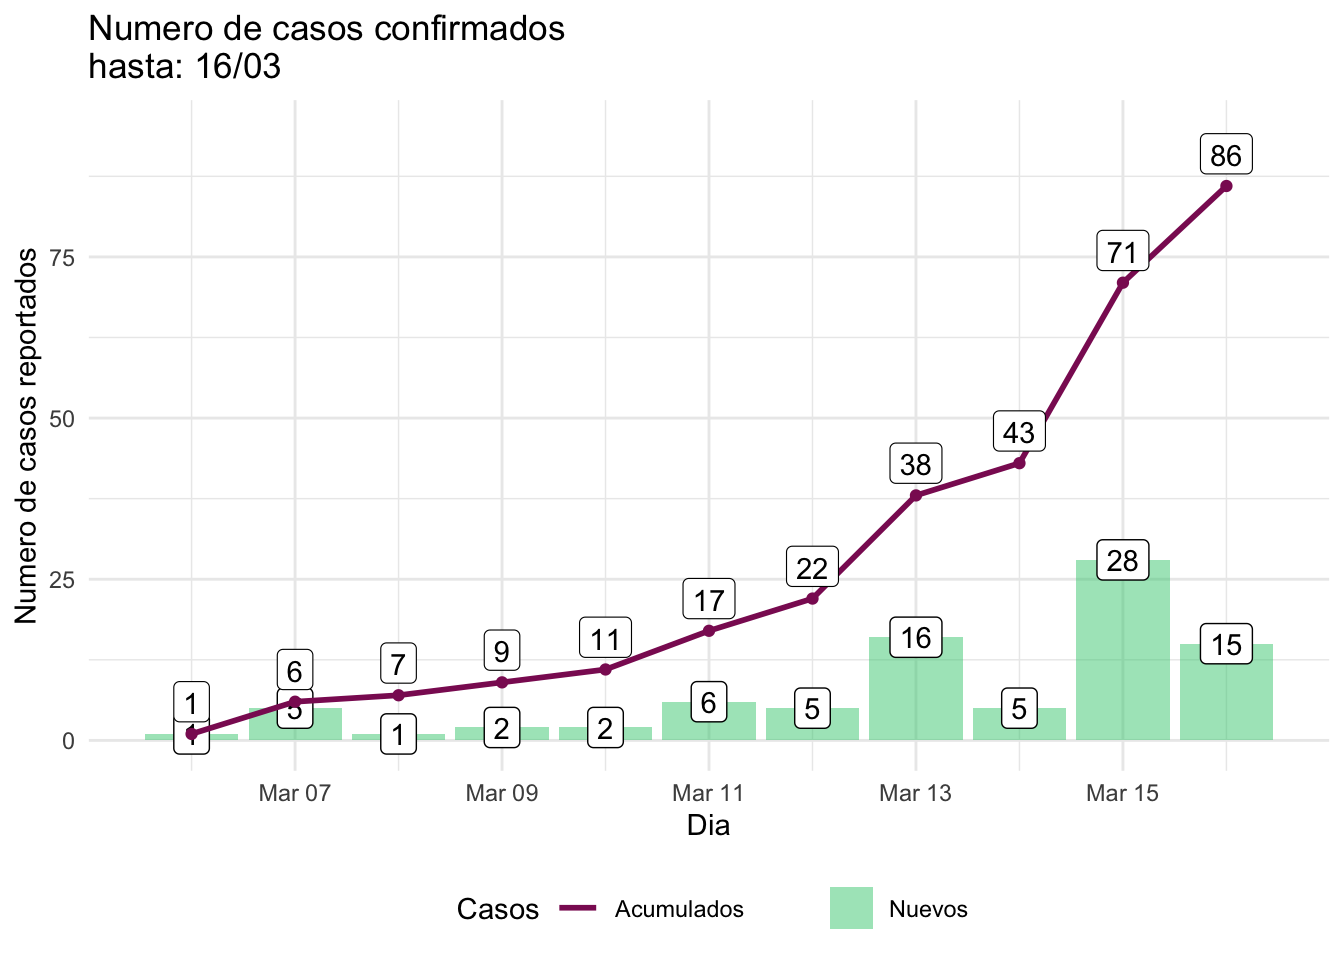
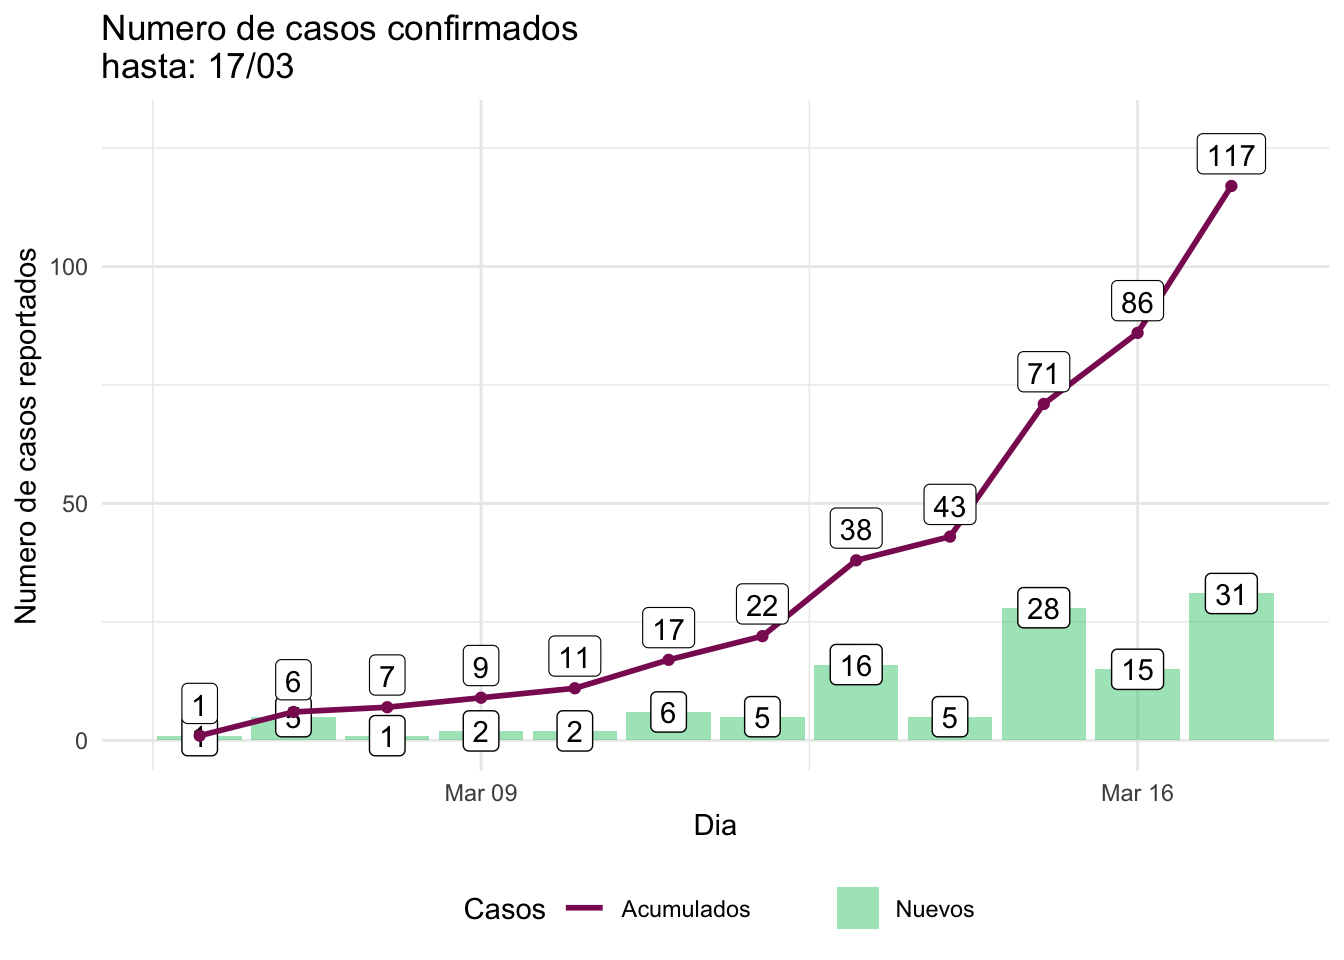
update 03/17

diff --git a/docs/Propagacion.html b/docs/Propagacion.html
@@ -373,13 +373,13 @@ div.tocify {
 <h2><span class="header-section-number">0.1</span> Casos Reportados</h2>
 <div id="numero-de-pacientes-positivos" class="section level3">
 <h3><span class="header-section-number">0.1.1</span> Número de pacientes positivos</h3>
-<p>Código elaborado por Gabriel Carrasco Escobar (<a href="http://gcarrasco.rbind.io/blog/covid19_viz/" class="uri">http://gcarrasco.rbind.io/blog/covid19_viz/</a>)</p>
+<p>Código adaptado del post de Gabriel Carrasco Escobar (<a href="http://gcarrasco.rbind.io/blog/covid19_viz/" class="uri">http://gcarrasco.rbind.io/blog/covid19_viz/</a>)</p>
 <p><img src="Propagacion_files/figure-html/unnamed-chunk-2-1.png" width="672" /></p>
 <p><img src="Propagacion_files/figure-html/unnamed-chunk-3-1.png" width="672" /></p>
 </div>
 <div id="pruebas" class="section level3">
 <h3><span class="header-section-number">0.1.2</span> Pruebas</h3>
-<p>Código elaborado por Gabriel Carrasco Escobar (<a href="http://gcarrasco.rbind.io/blog/covid19_viz/" class="uri">http://gcarrasco.rbind.io/blog/covid19_viz/</a>)</p>
+<p>Código adaptado del post de Gabriel Carrasco Escobar (<a href="http://gcarrasco.rbind.io/blog/covid19_viz/" class="uri">http://gcarrasco.rbind.io/blog/covid19_viz/</a>)</p>
 <p><img src="Propagacion_files/figure-html/unnamed-chunk-5-1.png" width="672" /></p>
 </div>
 </div>
@@ -417,10 +417,10 @@ Nuevos_Positivos
 155
 </td>
 <td style="text-align:right;">
-NA
+155
 </td>
 <td style="text-align:right;">
-NA
+1
 </td>
 </tr>
 <tr>
@@ -593,6 +593,23 @@ NA
 15
 </td>
 </tr>
+<tr>
+<td style="text-align:left;">
+2020-03-17
+</td>
+<td style="text-align:right;">
+117
+</td>
+<td style="text-align:right;">
+2680
+</td>
+<td style="text-align:right;">
+365
+</td>
+<td style="text-align:right;">
+31
+</td>
+</tr>
 </tbody>
 </table>
 </div>
@@ -603,8 +620,14 @@ NA
 <div id="fuentes" class="section level2">
 <h2><span class="header-section-number">0.4</span> Fuentes</h2>
 <p>Para la construcción de la tabla he usado la información difundida por MINSA en su cuenta oficial de twitter <span class="citation">[@Minsa_Peru]</span>(<a href="https://twitter.com/Minsa_Peru" class="uri">https://twitter.com/Minsa_Peru</a>)</p>
-<p>03/16</p>
-<p>{{&lt; tweet 1196831115899785216 &gt;}}</p>
+<p>03/17</p>
+<blockquote class="twitter-tweet">
+<p lang="es" dir="ltr">
+🗓 Reporte │ Esta es la situación del coronavirus <a href="https://twitter.com/hashtag/COVID19?src=hash&amp;ref_src=twsrc%5Etfw">#COVID19</a> en Perú hasta las 8:20 horas del 17 de marzo. <a href="https://twitter.com/hashtag/Per%C3%BAEst%C3%A1EnNuestrasManos?src=hash&amp;ref_src=twsrc%5Etfw">#PerúEstáEnNuestrasManos</a><br><br>Para más información, visita: <a href="https://t.co/F4GaDrvulE">https://t.co/F4GaDrvulE</a> <a href="https://t.co/8yojgp7eYw">pic.twitter.com/8yojgp7eYw</a>
+</p>
+— Ministerio de Salud (<span class="citation">@Minsa_Peru</span>) <a href="https://twitter.com/Minsa_Peru/status/1239982787404455940?ref_src=twsrc%5Etfw">March 17, 2020</a>
+</blockquote>
+<script async src="https://platform.twitter.com/widgets.js" charset="utf-8"></script>
 <p>03/16</p>
 <blockquote class="twitter-tweet">
 <p lang="es" dir="ltr">
